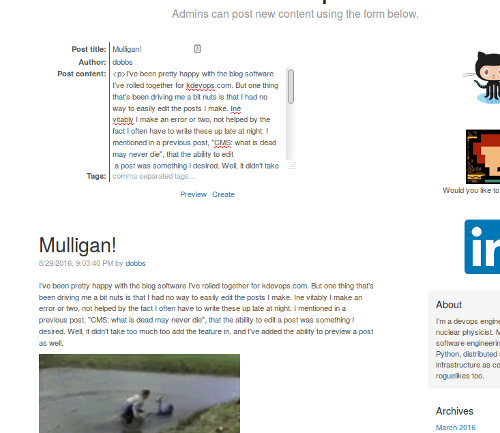
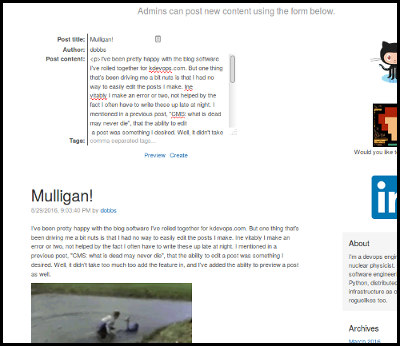
preview style and image tweak

diff --git a/website/server/static/style/blog.css b/website/server/static/style/blog.css
@@ -155,6 +155,10 @@ h6, .h6 {
   margin-top: 60px;
   margin-bottom: 60px;
 }
+.blog-post-preview img {
+    margin: 30px auto;
+    display: block;
+}
 .blog-post-title {
   display: inline-block;
   margin-bottom: 5px;
